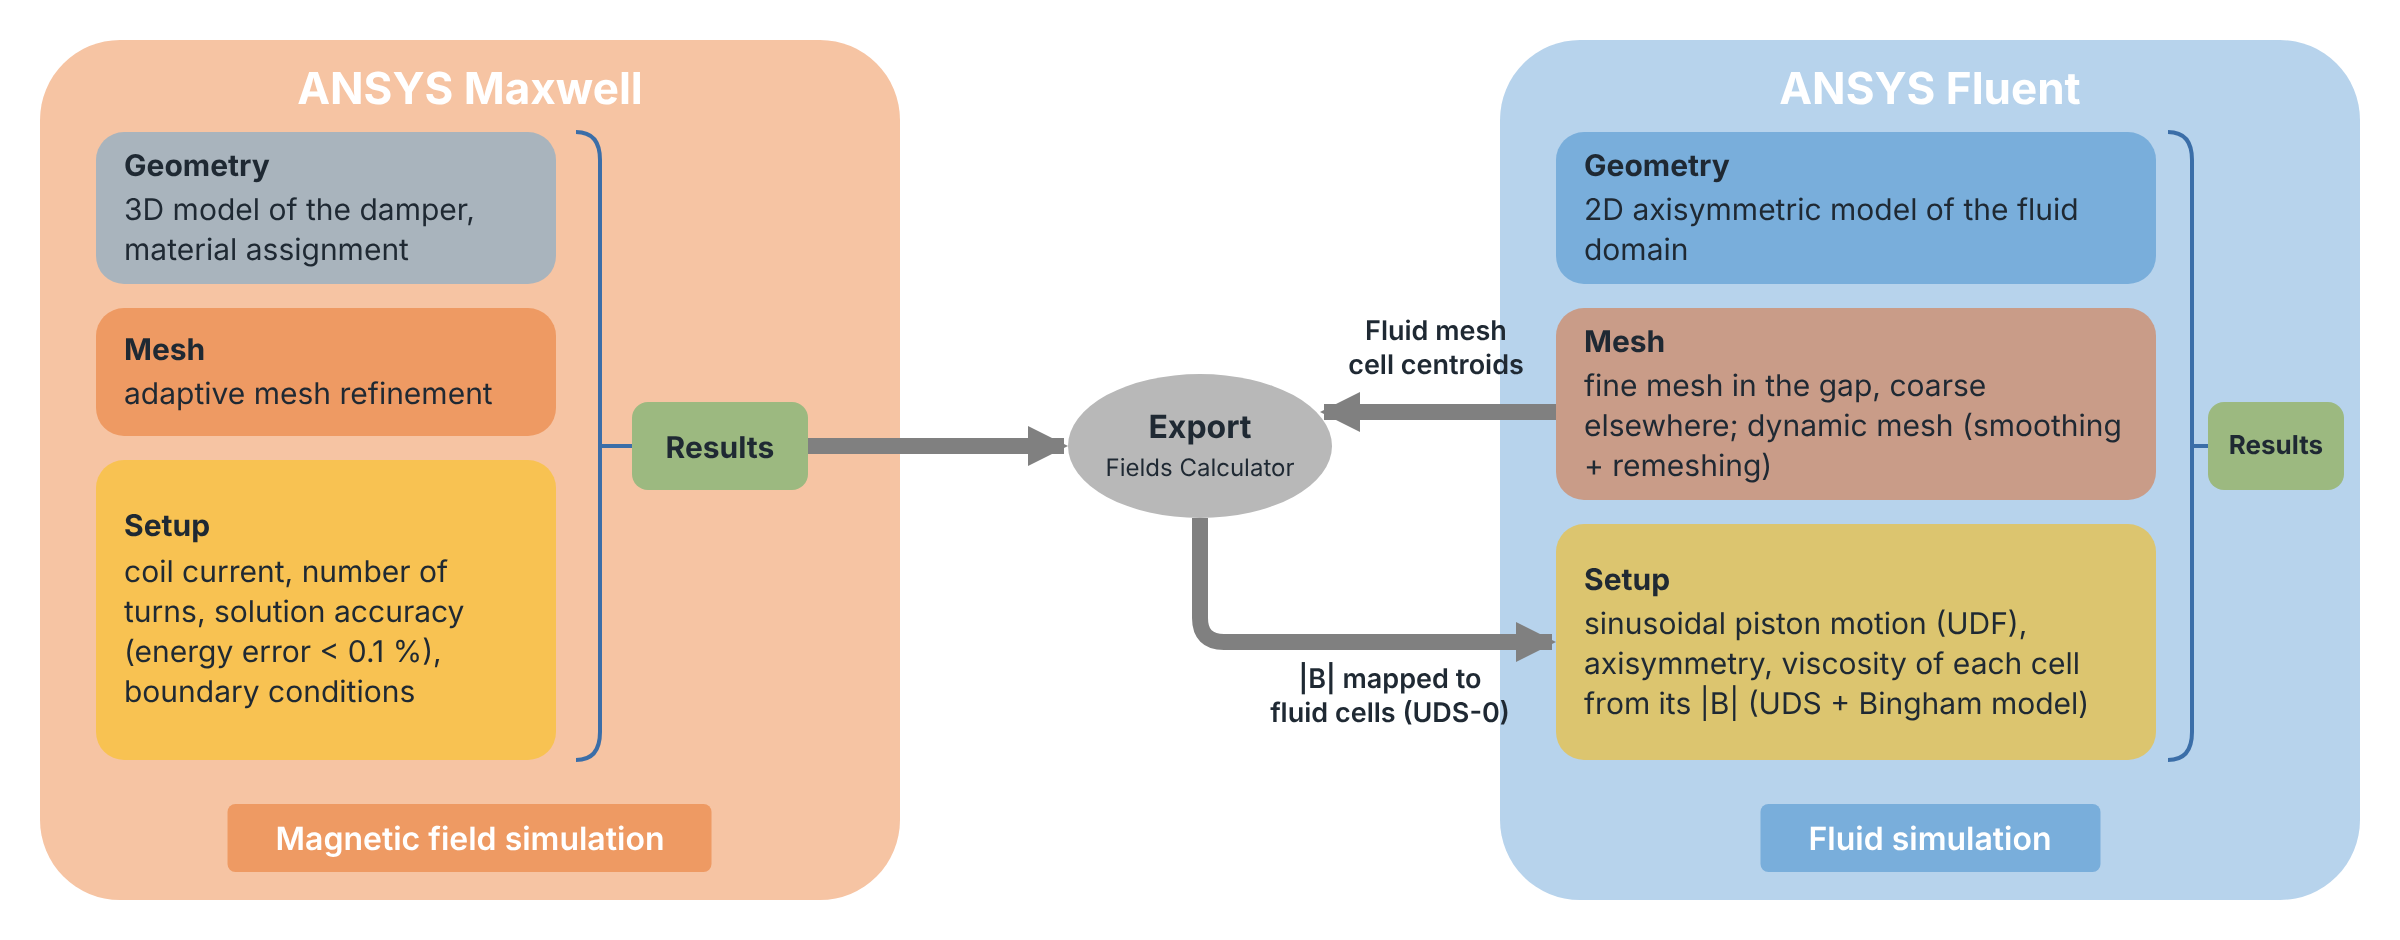
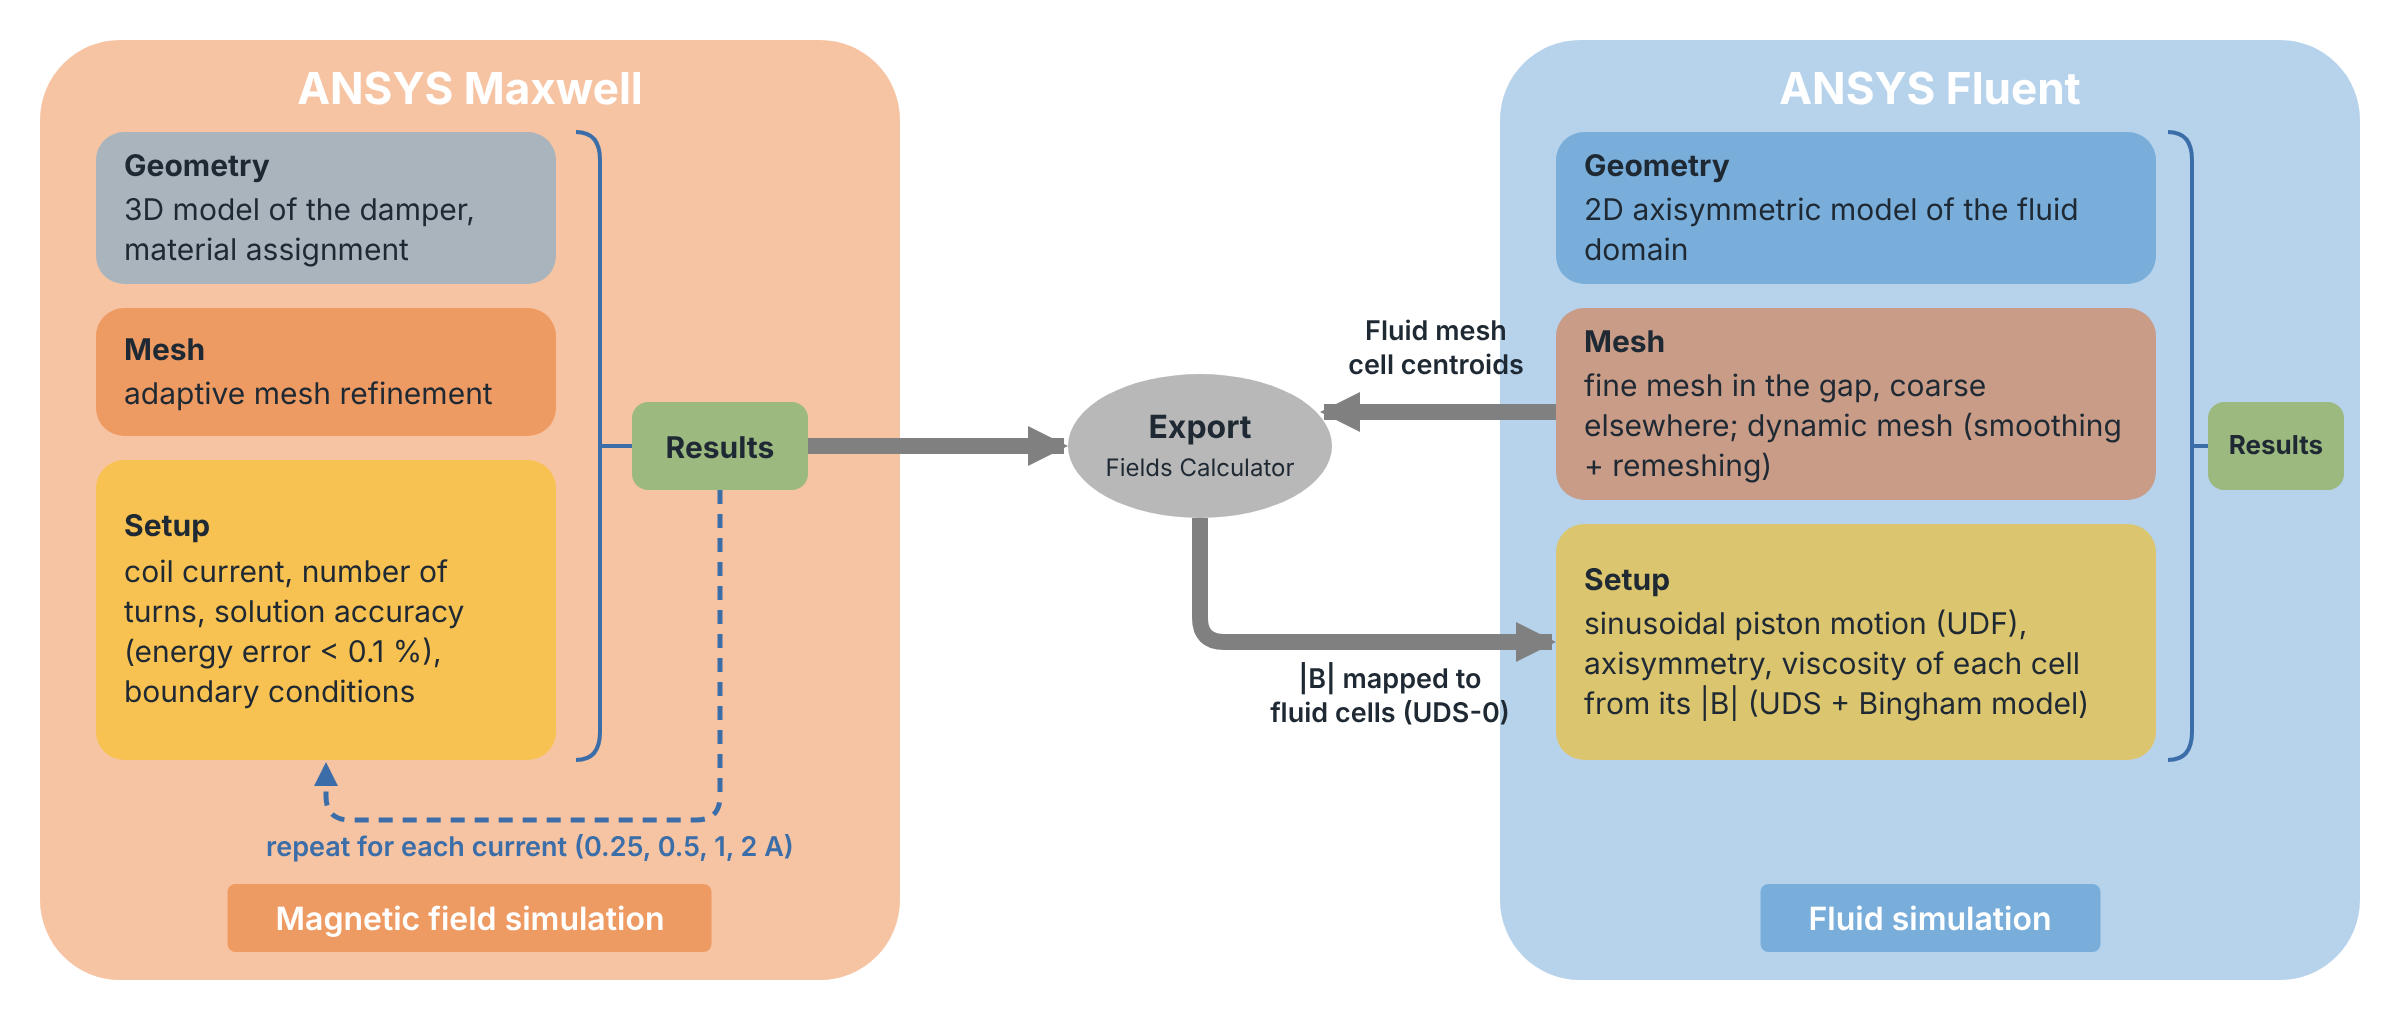
Workflow diagram: show Maxwell solved once per current

Changed region(s): [[0.0312, 0.0309, 1.0, 0.9872]]

diff --git a/figures/multiphysics_workflow_en.html b/figures/multiphysics_workflow_en.html
@@ -1,7 +1,7 @@
 <!doctype html><html><head><meta charset="utf-8"><style>
 body{margin:0;background:#fff;font-family:"Segoe UI",Arial,Helvetica,sans-serif}
-.wrap{position:relative;width:1200px;height:470px}
-.panel{position:absolute;top:20px;width:430px;height:430px;border-radius:40px}
+.wrap{position:relative;width:1200px;height:510px}
+.panel{position:absolute;top:20px;width:430px;height:470px;border-radius:40px}
 .mx{left:20px;background:#f6c4a3}.fl{left:750px;background:#b7d3ec}
 .ttl{position:absolute;top:12px;width:100%;text-align:center;color:#fff;font-weight:700;font-size:22px}
 .foot{position:absolute;bottom:14px;left:50%;transform:translateX(-50%);padding:7px 24px;color:#fff;font-weight:600;font-size:16px;border-radius:4px;white-space:nowrap}
@@ -23,8 +23,8 @@ body{margin:0;background:#fff;font-family:"Segoe UI",Arial,Helvetica,sans-serif}
 <div class="box" style="left:778px;top:154px;width:300px;height:96px;background:#c99c88"><b>Mesh</b>fine mesh in the gap, coarse elsewhere; dynamic mesh (smoothing + remeshing)</div>
 <div class="box" style="left:778px;top:262px;width:300px;height:118px;background:#dcc56f"><b>Setup</b>sinusoidal piston motion (UDF), axisymmetry, viscosity of each cell from its |B| (UDS + Bingham model)</div>
 <div class="res" style="left:1104px;top:201px;width:68px;height:44px;font-size:13px">Results</div>
-<svg width="1200" height="470" style="position:absolute;left:0;top:0">
- <defs><marker id="a" markerUnits="userSpaceOnUse" markerWidth="20" markerHeight="20" refX="18" refY="10" orient="auto"><path d="M0,0 L20,10 L0,20 z" fill="#808080"/></marker></defs>
+<svg width="1200" height="510" style="position:absolute;left:0;top:0">
+ <defs><marker id="a" markerUnits="userSpaceOnUse" markerWidth="20" markerHeight="20" refX="18" refY="10" orient="auto"><path d="M0,0 L20,10 L0,20 z" fill="#808080"/></marker><marker id="b" markerUnits="userSpaceOnUse" markerWidth="12" markerHeight="12" refX="10" refY="6" orient="auto"><path d="M0,0 L12,6 L0,12 z" fill="#3b6ea8"/></marker></defs>
  <!-- brackets, midpoints at y=223 -->
  <path d="M288,66 Q300,66 300,80 L300,366 Q300,380 288,380" fill="none" stroke="#3b6ea8" stroke-width="2"/>
  <line x1="300" y1="223" x2="316" y2="223" stroke="#3b6ea8" stroke-width="2"/>
@@ -40,7 +40,10 @@ body{margin:0;background:#fff;font-family:"Segoe UI",Arial,Helvetica,sans-serif}
  <line x1="778" y1="206" x2="662" y2="206" stroke="#808080" stroke-width="8" marker-end="url(#a)"/>
  <!-- export -> Fluent setup -->
  <path d="M600,259 L600,309 Q600,321 612,321 L776,321" fill="none" stroke="#808080" stroke-width="8" marker-end="url(#a)"/>
+ <!-- loop: solve once per current -->
+ <path d="M360,245 L360,398 Q360,410 348,410 L175,410 Q163,410 163,398 L163,383" fill="none" stroke="#3b6ea8" stroke-width="2.5" stroke-dasharray="7 5" marker-end="url(#b)"/>
 </svg>
+<div class="lab" style="left:120px;top:416px;width:290px;color:#3b6ea8">repeat for each current (0.25, 0.5, 1, 2 A)</div>
 <div class="lab" style="left:658px;top:158px;width:120px">Fluid mesh<br>cell centroids</div>
 <div class="lab" style="left:612px;top:332px;width:166px">|B| mapped to<br>fluid cells (UDS-0)</div>
 </div></body></html>
